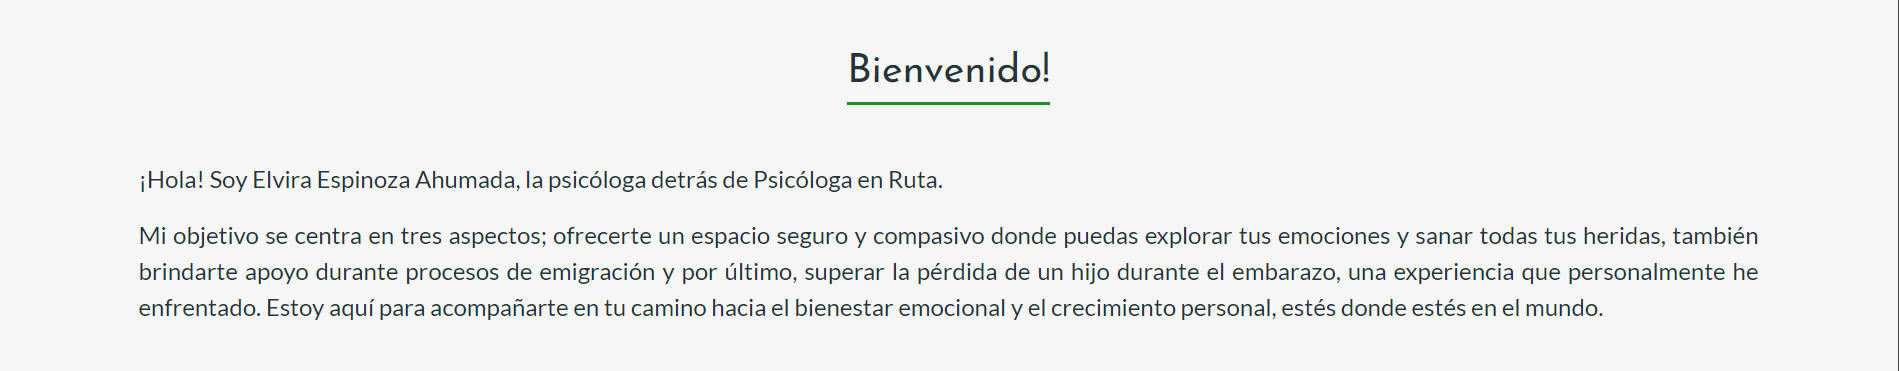
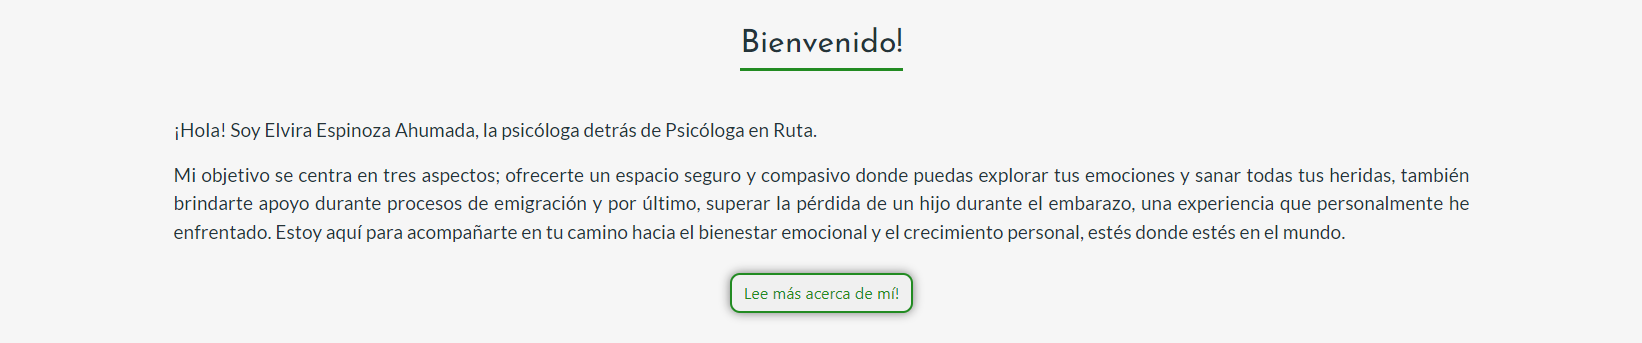
Update README.md and reviews model

diff --git a/reviews/templates/reviews/reviews.html b/reviews/templates/reviews/reviews.html
@@ -52,7 +52,7 @@
         </div>
     </div>
 </div>
-{{% if is_paginated %}
+{% if is_paginated %}
 <div class="pagination-wrapper d-flex justify-content-center mt-4">
     <nav aria-label="Page navigation">
         <ul class="pagination">

diff --git a/reviews/models.py b/reviews/models.py
@@ -21,3 +21,12 @@ class Review(models.Model):
 
     def __str__(self):
         return f"Review by {self.autor.username} on {self.creado_el}"
+
+     # Methods to calculate full and empty stars
+    def full_stars(self):
+        """Returns a range object representing filled stars."""
+        return range(self.clasificación)
+
+    def empty_stars(self):
+        """Returns a range object representing unfilled stars."""
+        return range(5 - self.clasificación)   

diff --git a/README.md b/README.md
@@ -234,6 +234,11 @@ css que se utilizan en todas las páginas del proyecto.
 
 ![img](Documentacion/caracteristicas/hero%20image.PNG)
 
+- Mas abajo hay un breve párrafo de bienvenida al usuario, con un botón de  "Lee más acerca de mi!" que lleva directamente a la página de servicios. Este botón sólo es visible cuando ningún usuario ha iniciado sesión. 
+
+![img](Documentacion/caracteristicas/welcome.PNG)
+
+
 ## Formulario de contacto
 - 
 
@@ -259,11 +264,11 @@ css que se utilizan en todas las páginas del proyecto.
 
 ## Acerca de la sección 
 
-![img](Documentacion/caracteristicas/)
+![img](Documentacion/caracteristicas/about.PNG)
 
 ## Sección de servicios 
 
-![img]()
+![img](Documentacion/caracteristicas/servicios.PNG)
 
 ## Reserva y cita 
 
@@ -276,7 +281,7 @@ css que se utilizan en todas las páginas del proyecto.
 - Si una combinación de fecha y hora no está disponible, se informa al usuario mediante un mensaje de advertencia. 
 - Los comentarios de los usuarios se envían por mensaje una vez que se ha enviado y actualizado una reserva, el mensaje desaparece después de 5 segundos.
 
-![img]()
+![img](Documentacion/caracteristicas/booking.PNG)
 
 ## Lista de citas de usuarios
 - Panel de control solo visible para usuarios registrados que hayan realizado una reserva anterior
@@ -291,19 +296,25 @@ css que se utilizan en todas las páginas del proyecto.
 - Un mensaje aparecerá en la parte superior de la pantalla cada vez que el usuario reserve una hora, la modifique o la elimine. 
 
 ## Lista de las últimas reseñas
-- La página Reseñas muestra todas las reseñas publicadas por diferentes usuarios y se muestran en orden de la más nueva a la más antigua.
-- Cada tarjeta de revisión mostrará el nombre del autor, la fecha de publicación, el servicio reservado, una sección del cuerpo para los comentarios y una escala de calificación del 1 al 5 representada por estrellas.
+- En esta página se mostrarán todas las reseñas publicadas por diferentes usuarios, en orden de la más nueva a la más antigua.
+- Si no hay reseñas aparecerá un mensaje "No hay reseñas" y un botón para volver a la página principal. 
 
-![img]()
+![img](Documentacion/caracteristicas/reviews0.PNG)
 
-- Si la sección del cuerpo de los comentarios supera una determinada cantidad de caracteres, los usuarios verán un hipervínculo "ver más" que les permitirá mostrar el contenido completo en una nueva ventana, favoreciendo una mejor visualización del contenido.
+- Cada recuadro mostrará el nombre del autor, la fecha de publicación, el servicio reservado, una sección del cuerpo para los comentarios y una escala de calificación del 1 al 5 representada por estrellas.
 
-![img]()
+- Esta sección se diseñó para no mostrar más de 6 reseñas por página, por lo que cuenta con una barra de paginación, para cuando se excede las 6 reseñas.
+
+![img](Documentacion/caracteristicas/reviews.PNG)
+
+- Si la sección del cuerpo de los comentarios supera una determinada cantidad de caracteres, los usuarios verán un hipervínculo "ver más" que les permitirá mostrar el contenido completo en una nueva ventana, favoreciendo una mejor visualización del contenido junto con un botón para volver a la página de reseñas.
+
+![img](Documentacion/caracteristicas/reviews.detail.PNG)
 
 ## Agregar una reseña
 Esta página contiene un formulario con detalles de: fecha de reserva, servicio, fecha, calificación y un comentario. Todos los campos son solicitados para enviar el formulario.
 
-![img]()
+![img](Documentacion/caracteristicas/review.post.PNG)
 
 ## Cerrar sesión
 ![img](Documentacion/caracteristicas/logout.PNG)
